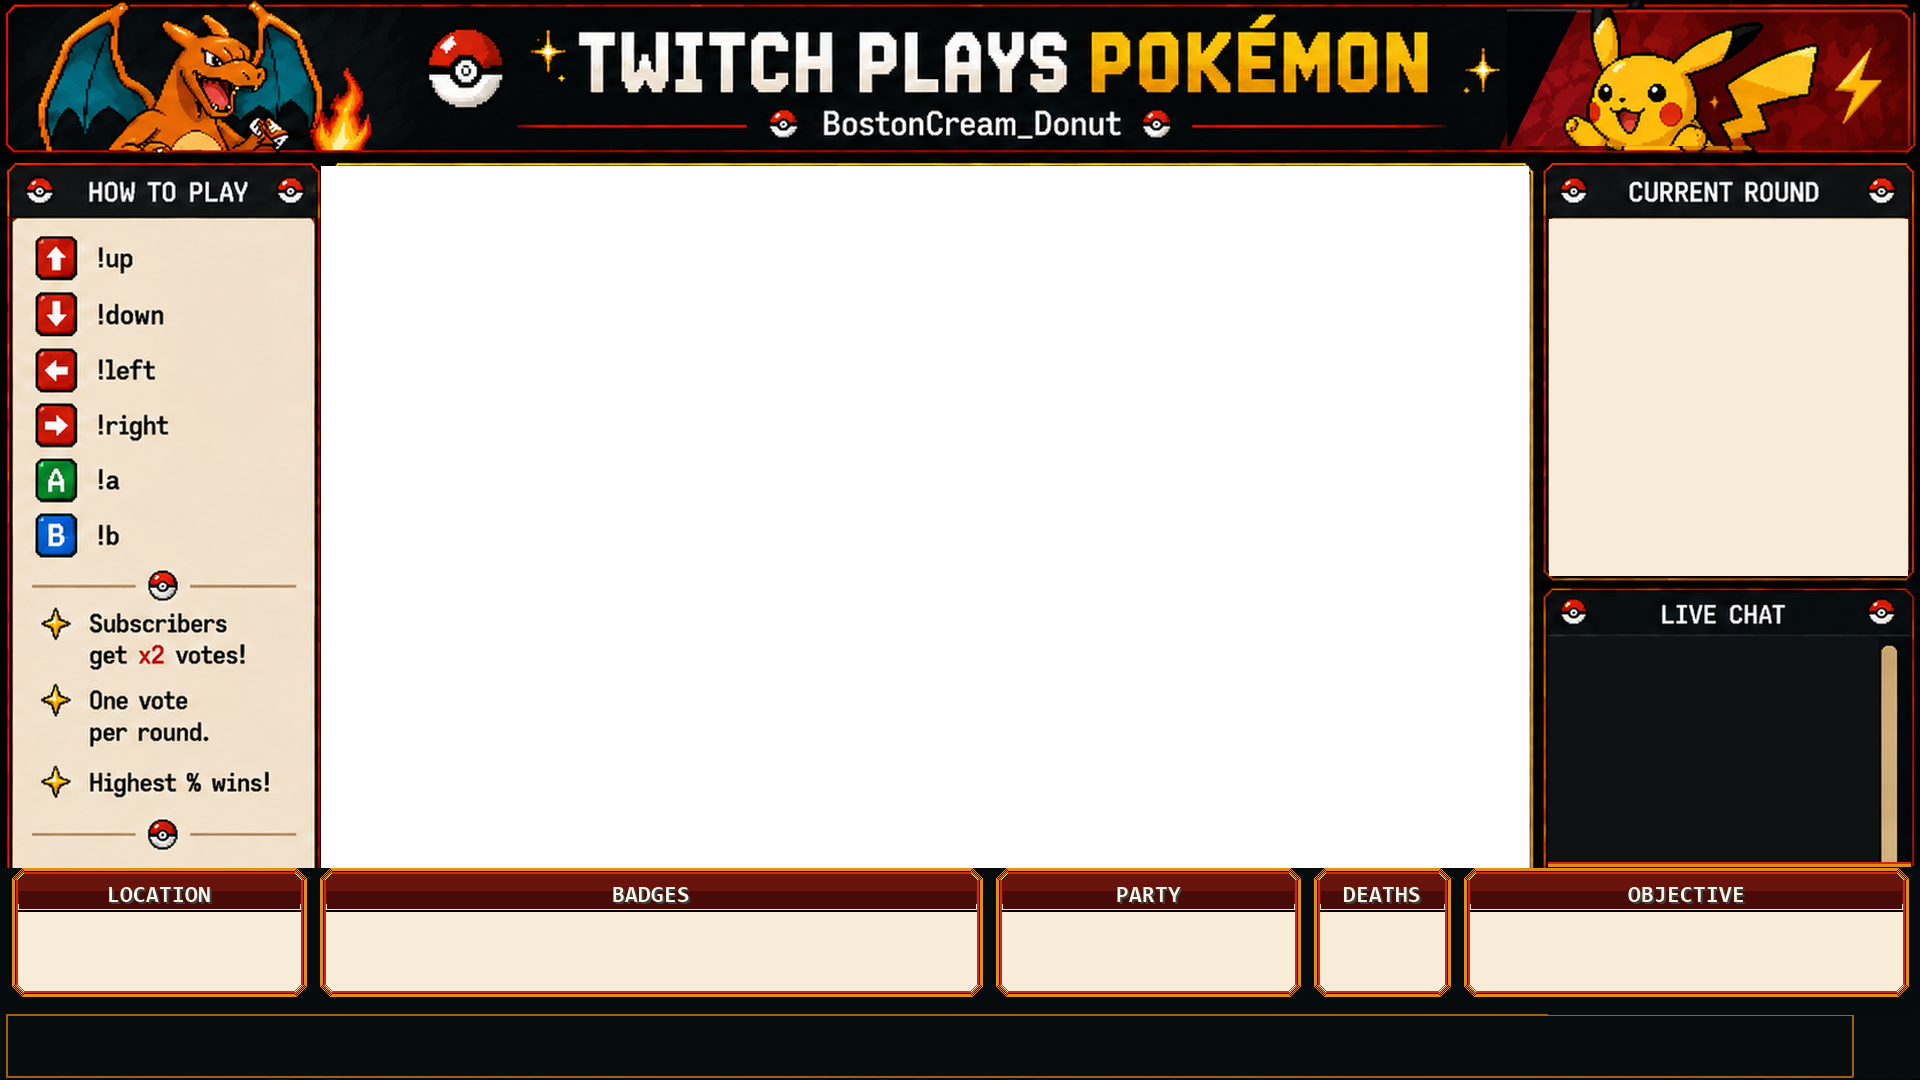
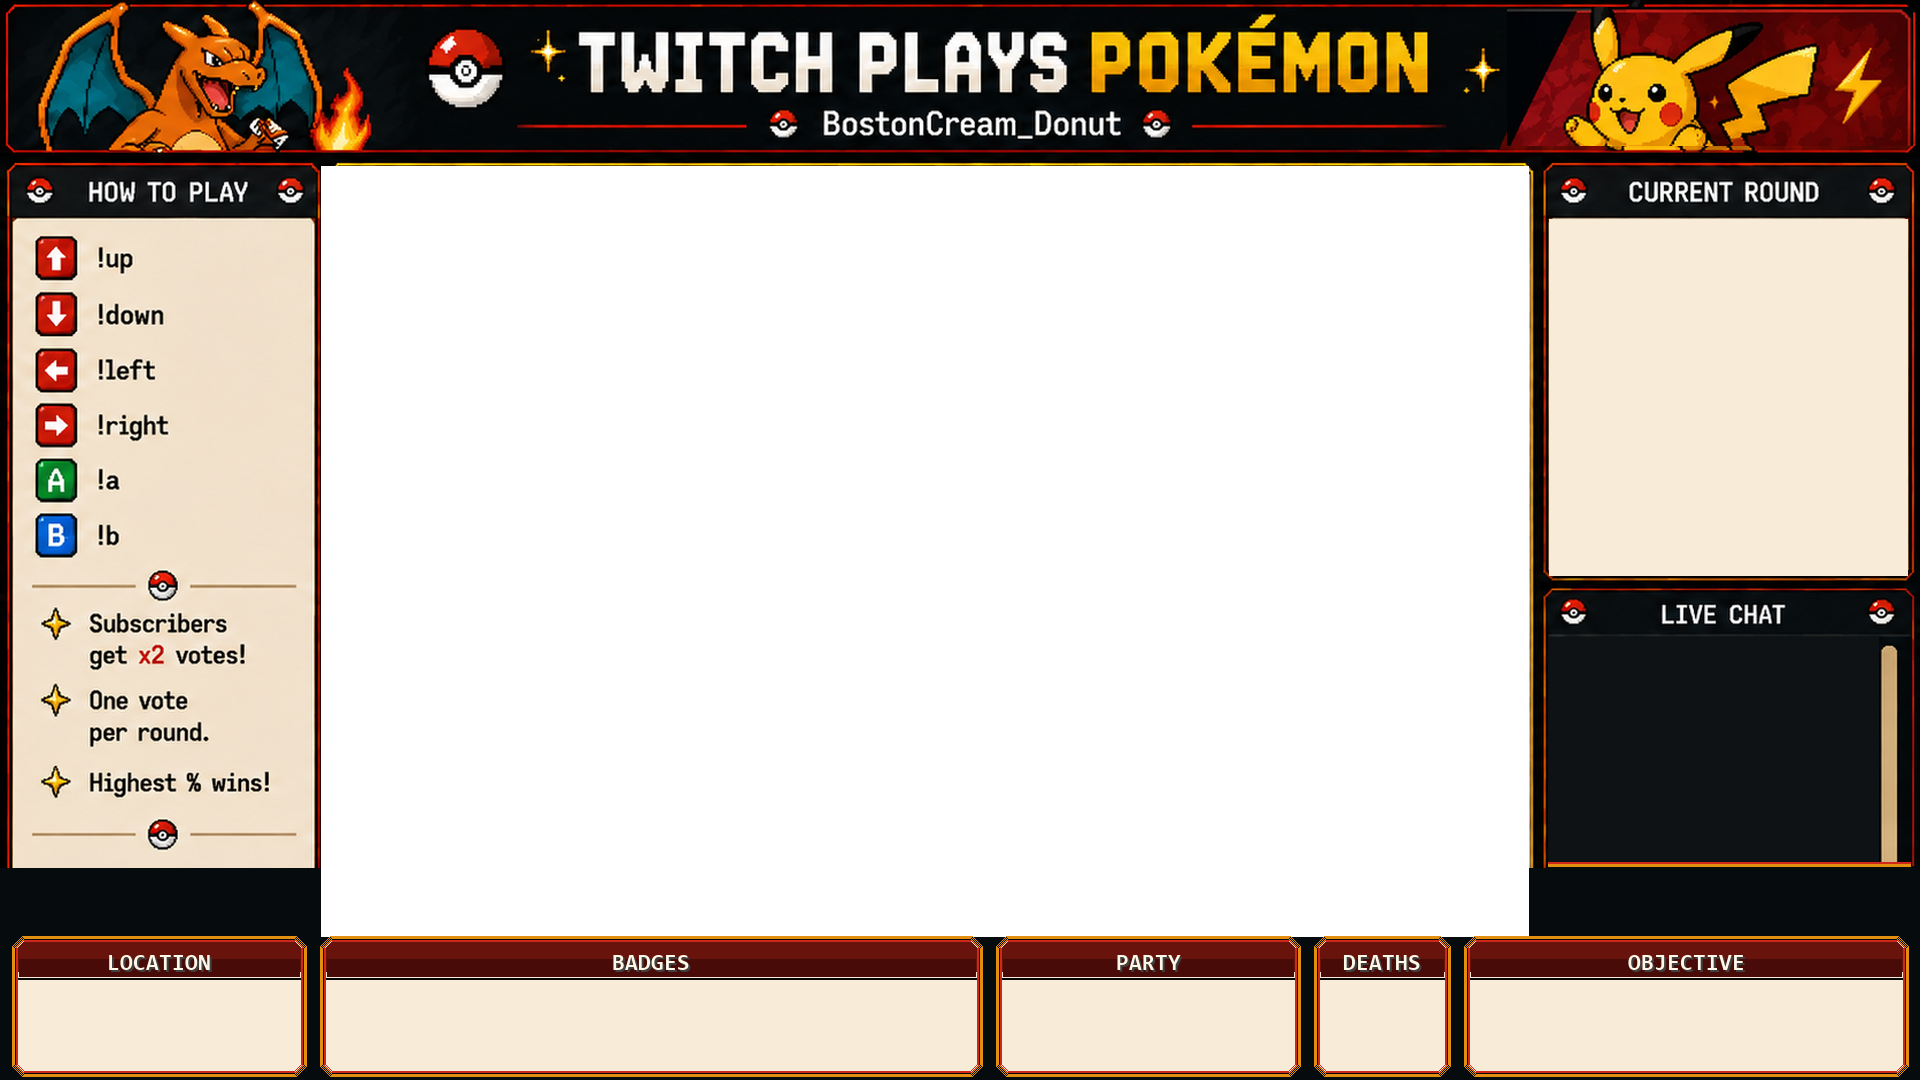
more codex

Changed region(s): [[0.0, 0.7944, 1.0, 1.0]]

diff --git a/overlay_app.py b/overlay_app.py
@@ -209,10 +209,6 @@ class Overlay(QWidget):
         p.setBrush(DARK)
         p.drawRect(QRectF(1548, 637, 330, 226))
 
-        # Footer strip
-        p.setBrush(FOOTER)
-        p.drawRect(QRectF(6, 1014, 1846, 31))
-
     def draw_votes(self, p):
         rows = self.state.get("votes", [])[:5]
         rem = float(self.state.get("time_remaining", 3.0))
@@ -277,24 +273,24 @@ class Overlay(QWidget):
         self.draw_deaths_panel(p, deaths)
         self.draw_objective_panel(p, objective)
 
-        # Footer
+        # Side stats, kept out of the center gameplay space.
         top = self.state.get("top_trainers", [])
-        top_name = top[0]["username"] if top else "pikafan23"
+        top_name = str(top[0]["username"] if top else "pikafan23")[:16]
         top_lvl = top[0]["level"] if top else 38
         total_trainers = int(self.state.get("unique_players", 1248))
         longest_streak = int(self.state.get("longest_streak", 27))
-        self.screen_text(p, f"TOP TRAINER: {top_name} (Lv. {top_lvl})", 30, 1016, 430, 28, 18, WHITE, True)
-        self.screen_text(p, f"LONGEST STREAK: {longest_streak}", 485, 1016, 285, 28, 18, WHITE, True)
-        self.screen_text(p, f"TOTAL TRAINERS: {total_trainers:,}", 795, 1016, 330, 28, 18, WHITE, True)
-        self.screen_text(p, "!trainer for your card", 1585, 1016, 300, 28, 18, GOLD, True, Qt.AlignRight | Qt.AlignVCenter)
+        self.screen_text(p, f"TOP: {top_name} Lv.{top_lvl}", 18, 878, 285, 24, 15, WHITE, True, Qt.AlignCenter)
+        self.screen_text(p, f"STREAK: {longest_streak}", 18, 908, 285, 24, 15, WHITE, True, Qt.AlignCenter)
+        self.screen_text(p, f"TRAINERS: {total_trainers:,}", 1558, 878, 330, 24, 15, WHITE, True, Qt.AlignCenter)
+        self.screen_text(p, "!trainer for card", 1558, 908, 330, 24, 15, GOLD, True, Qt.AlignCenter)
 
     def draw_location_panel(self, p, loc):
-        body = (22, 916, 296, 986)
-        icon_w, icon_h = 72, 72
+        body = (22, 984, 296, 1066)
+        icon_w, icon_h = 60, 60
         text = str(loc)
-        font_size = 30
+        font_size = 26
         text_w, text_h = self.screen_text_size(p, text, font_size, True)
-        gap = 20
+        gap = 14
         group_w = icon_w + gap + text_w
         x = body[0] + (body[2] - body[0] - group_w) / 2
         cy = body[1] + (body[3] - body[1]) / 2
@@ -303,7 +299,7 @@ class Overlay(QWidget):
 
     def draw_badges_panel(self, p, badges):
         count = max(0, min(8, int(badges)))
-        body = (330, 916, 972, 986)
+        body = (330, 984, 972, 1066)
         size = 52
         gap = 18
         group_w = 8 * size + 7 * gap
@@ -316,7 +312,7 @@ class Overlay(QWidget):
 
     def draw_party_panel(self, p, party):
         count = max(0, min(6, int(party)))
-        body = (1006, 916, 1290, 986)
+        body = (1006, 984, 1290, 1066)
         size = 48
         gap = -3
         group_w = 6 * size + 5 * gap
@@ -327,7 +323,7 @@ class Overlay(QWidget):
             self.screen_sprite(p, name, x0 + i * (size + gap), y0, size, size)
 
     def draw_deaths_panel(self, p, deaths):
-        body = (1324, 916, 1440, 986)
+        body = (1324, 984, 1440, 1066)
         text = str(deaths)
         font_size = 30
         text_w, text_h = self.screen_text_size(p, text, font_size, True)
@@ -340,7 +336,7 @@ class Overlay(QWidget):
         self.screen_text(p, text, x + skull_size + gap, cy - text_h / 2 - 2, text_w + 8, text_h + 8, font_size, INK, True)
 
     def draw_objective_panel(self, p, objective):
-        body = (1474, 916, 1898, 986)
+        body = (1474, 984, 1898, 1066)
         text = str(objective)
         font_size = 24
         lines = text.splitlines() or [text]

diff --git a/tools/build_overlay_assets.py b/tools/build_overlay_assets.py
@@ -25,14 +25,14 @@ BADGE_REFERENCE = REFERENCE / "fire_red_badges.png"
 SKULL_REFERENCE = REFERENCE / "skull_pixel_reference.png"
 
 BOTTOM_BOXES = {
-    "location": (12, 868, 306, 996),
-    "badges": (320, 868, 982, 996),
-    "party": (996, 868, 1300, 996),
-    "deaths": (1314, 868, 1450, 996),
-    "objective": (1464, 868, 1908, 996),
+    "location": (12, 936, 306, 1076),
+    "badges": (320, 936, 982, 1076),
+    "party": (996, 936, 1300, 1076),
+    "deaths": (1314, 936, 1450, 1076),
+    "objective": (1464, 936, 1908, 1076),
 }
 
-GAME_APERTURE = (321, 166, 1528, 868)
+GAME_APERTURE = (321, 166, 1528, 936)
 
 FONT_DIR = Path("C:/Windows/Fonts")
 HEADER_FONT = FONT_DIR / "consolab.ttf"
@@ -85,26 +85,21 @@ def make_clean_frame():
     frame = Image.open(source).convert("RGBA")
     draw = ImageDraw.Draw(frame)
 
-    # The approved source used a checkerboard placeholder in the game area.
-    # Cut the full gameplay aperture to alpha 0 so OBS/mGBA shows through.
-    draw.rectangle(GAME_APERTURE, fill=(0, 0, 0, 0))
-
     # Clear live-value areas so the frame itself is clean even before PyQt paints state.
     draw.rectangle((1549, 219, 1907, 575), fill=CREAM)
     draw.rectangle((1548, 637, 1878, 865), fill=(14, 18, 20, 255))
 
     # Clear old bottom panel row, old trainer-status area, and old footer contents.
-    draw.rectangle((0, 868, SCREEN_W, 1048), fill=DARK)
-    draw.rectangle((0, 1014, SCREEN_W, 1078), fill=FOOTER)
-    draw.line((6, 1014, 1852, 1014), fill=(160, 96, 12, 255), width=2)
-    draw.line((6, 1076, 1852, 1076), fill=(160, 96, 12, 255), width=2)
-    draw.line((6, 1014, 6, 1076), fill=(160, 96, 12, 255), width=2)
-    draw.line((1852, 1014, 1852, 1076), fill=(160, 96, 12, 255), width=2)
+    draw.rectangle((0, 868, SCREEN_W, SCREEN_H), fill=DARK)
 
     # Shorten live chat visually so the new bottom row can use the lower-right space.
-    draw.rectangle((1548, 866, 1915, 1014), fill=DARK)
+    draw.rectangle((1548, 866, 1915, 936), fill=DARK)
     draw.line((1548, 865, 1910, 865), fill=GOLD, width=3)
     draw.line((1548, 862, 1910, 862), fill=INNER_RED, width=2)
+
+    # The approved source used a checkerboard placeholder in the game area.
+    # Cut the full gameplay aperture to alpha 0 so OBS/mGBA shows through.
+    draw.rectangle(GAME_APERTURE, fill=(0, 0, 0, 0))
 
     for title, box in BOTTOM_BOXES.items():
         panel(draw, box, title)

diff --git a/README.md b/README.md
@@ -18,6 +18,7 @@ Recommended source order:
 2. mGBA Window Capture
 
 The mGBA source should be placed underneath the overlay so it shows through the transparent game opening.
+Current game opening: `x=321`, `y=166`, `width=1207`, `height=770`.
 
 ## Raspberry Pi run order
 On the Pi, pull the repo and run:
